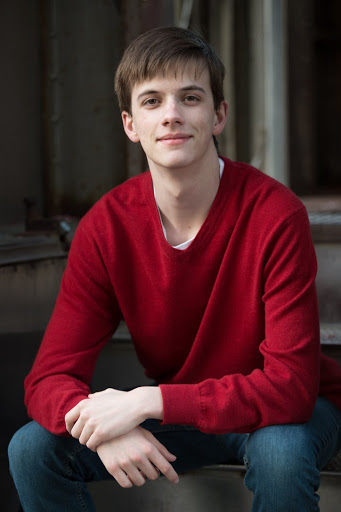
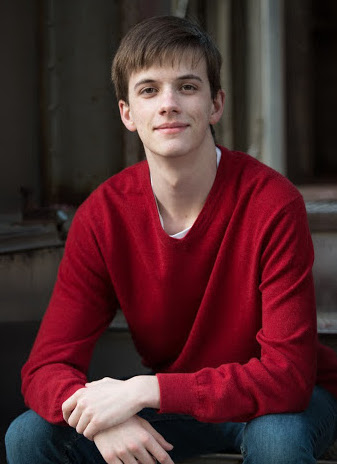
Image adjustment
changes to apsect ratio of original images.

diff --git a/index.html b/index.html
@@ -19,9 +19,6 @@
                 <li><a href="students.html">Students</a></li>
                 <li><a href="projects.html">Projects</a></li>
                 <li><a href="index.html">Home</a></li>
-
-
-
             </ul>
         </div>
         <div class="hero-text">
@@ -108,52 +105,113 @@
     </div>
 
     <div class="block4">
-        <div class="student_card">
-            <img src="img/RachelKim.jpg" alt="Girl standing in meadow">
-            <div><p>Rachel Kim</p></div>
-
-        </div>
-        <div class="student_card">
-            <img src="img/SamWolf.jpg" alt="Girl standing in meadow">
-            <div><p>Sam Wolf</p></div>
-            <p>Sam Wolf</p>
-        </div>
-        <div class="student_card">
-            <img src="img/MarcelaGomez.jpg" alt="Girl standing in meadow">
-            <div><p>Marcela Gomez</p></div>
-            <p>Marcela Gomez</p>
-        </div>
-        <div class="student_card">
-            <img src="img/NicholasYoung.png" alt="Girl standing in meadow">
-            <div><p>Nicholas Young </p></div>
-
-        </div>
-        
-    </div>
-
-    <div class="block2">
-        <div class="container">
-            <div class="gallery">
-                <a target="blank" href="img/pisan.jpg">
-                    <img src="img/pisan.jpg" alt="picture of Dr. Yusuf Pisan" width="140" height="140">
-                </a>
+        <div class="flip_card">
+            <div class="flip_card_inner">
+                <div class="flip_card_front">
+                    <img src="img/RachelKim.jpg" alt="Girl standing in meadow">
+                    <div><p>Rachel Kim</p></div>
+                </div>
+                <div class="flip_card_back">
+                    <p> Building Problem Solver (BPS)</p>
+                </div>
             </div>
-            <div class="bio-text">
-                <h2>Dr. Yusuf Pisan</h2>
-                Lorem ipsum dolor sit amet, consectetur adipiscing elit, sed do eiusmod tempor incididunt ut labore
-                et dolore magna aliqua. Ut enim ad minim veniam, quis nostrud exercitation ullamco laboris nisi ut
-                aliquip ex ea commodo consequat. Duis aute irure dolor in reprehenderit in voluptate velit esse
-                cillum dolore eu fugiat nulla pariatur. Excepteur sint occaecat cupidatat non proident, sunt in
-                culpa qui officia deserunt mollit anim id est laborum.
+        </div>
 
-                Lorem ipsum dolor sit amet, consectetur adipiscing elit, sed do eiusmod tempor incididunt ut labore
-                et dolore magna aliqua. Ut enim ad minim veniam, quis nostrud exercitation ullamco laboris nisi ut
-                aliquip ex ea commodo consequat. Duis aute irure dolor in reprehenderit in voluptate velit esse
-                cillum dolore eu fugiat nulla pariatur. Excepteur sint occaecat cupidatat non proident, sunt in
-                culpa qui officia deserunt mollit anim id est laborum.
+        <div class="flip_card">
+            <div class="flip_card_inner">
+                <div class="flip_card_front">
+                    <img src="img/SamWolf.jpg" alt="Girl standing in meadow">
+                    <div><p>Sam Wolf</p></div>
+                </div>
+                <div class="flip_card_back">
+                    <p>I work primarily on iOS and Android apps, with a strong interest in Machine Learning and its
+                        applications. The work I have done for T4G is the start of an automated technical paper grader,
+                        along with some additions to this Website. </p>
+                </div>
+            </div>
+        </div>
+
+        <div class="flip_card">
+            <div class="flip_card_inner">
+                <div class="flip_card_front">
+                    <img src="img/MarcelaGomez.jpg" alt="Girl standing in meadow">
+                    <div><p>Marcela Gomez</p></div>
+                </div>
+                <div class="flip_card_back">
+                    <p>Problem solving leetcode problems brought me to T4G. I stayed to participate in games with a
+                        purpose and creating a new team website. </p>
+                </div>
             </div>
         </div>
     </div>
+
+    <div class="block4">
+        <div class="flip_card">
+            <div class="flip_card_inner">
+                <div class="flip_card_front">
+                    <img src="img/BillZhao.png" alt="Girl standing in meadow">
+                    <div><p>Bill Zhao</p></div>
+                </div>
+                <div class="flip_card_back">
+                    <p> Bill worked on the hint generator project and contributed to the Stepik course as his
+                        Capstone project.</p>
+                </div>
+            </div>
+        </div>
+
+        <div class="flip_card">
+            <div class="flip_card_inner">
+                <div class="flip_card_front">
+                    <img src="img/KeziahMay.jpg" alt="Girl standing in meadow">
+                    <div><p>Keziah May </p></div>
+                </div>
+                <div class="flip_card_back">
+                    <p>As a member of T4G, I am working with my team to create an online class focused on
+                        problem solving. The goal of this course is to bridge the gap between Computer
+                        Science education and the skills required to land a job.
+                        https://stepik.org/course/72339/promo </p>
+                </div>
+            </div>
+        </div>
+
+        <div class="flip_card">
+            <div class="flip_card_inner">
+                <div class="flip_card_front">
+                    <img src="img/NicholasYoung.png " alt="Girl standing in meadow">
+                    <div><p>Nicholas Young </p></div>
+                </div>
+                <div class="flip_card_back">
+                    <p>100 Unity Mechanics</p>
+                </div>
+            </div>
+        </div>
+    </div>
+
+
+
+<!--    <div class="block2">-->
+<!--        <div class="container">-->
+<!--            <div class="gallery">-->
+<!--                <a target="blank" href="img/pisan.jpg">-->
+<!--                    <img src="img/pisan.jpg" alt="picture of Dr. Yusuf Pisan" width="140" height="140">-->
+<!--                </a>-->
+<!--            </div>-->
+<!--            <div class="bio-text">-->
+<!--                <h2>Dr. Yusuf Pisan</h2>-->
+<!--                Lorem ipsum dolor sit amet, consectetur adipiscing elit, sed do eiusmod tempor incididunt ut labore-->
+<!--                et dolore magna aliqua. Ut enim ad minim veniam, quis nostrud exercitation ullamco laboris nisi ut-->
+<!--                aliquip ex ea commodo consequat. Duis aute irure dolor in reprehenderit in voluptate velit esse-->
+<!--                cillum dolore eu fugiat nulla pariatur. Excepteur sint occaecat cupidatat non proident, sunt in-->
+<!--                culpa qui officia deserunt mollit anim id est laborum.-->
+
+<!--                Lorem ipsum dolor sit amet, consectetur adipiscing elit, sed do eiusmod tempor incididunt ut labore-->
+<!--                et dolore magna aliqua. Ut enim ad minim veniam, quis nostrud exercitation ullamco laboris nisi ut-->
+<!--                aliquip ex ea commodo consequat. Duis aute irure dolor in reprehenderit in voluptate velit esse-->
+<!--                cillum dolore eu fugiat nulla pariatur. Excepteur sint occaecat cupidatat non proident, sunt in-->
+<!--                culpa qui officia deserunt mollit anim id est laborum.-->
+<!--            </div>-->
+<!--        </div>-->
+<!--    </div>-->
 
     <footer class="hero-image2">
         <div class="container">

diff --git a/style.css b/style.css
@@ -64,6 +64,9 @@
         padding-right: 10px;
         float: right;
     }
+    .block1{
+        margin: 150px 0 150px 0;
+    }
     .block1 h2{
         margin: 60px 0px 20px 110px;
 
@@ -74,7 +77,7 @@
         flex-direction: row;
         justify-content: space-evenly;
         align-content: space-between;
-        padding: 30px 0px 30px 0px;
+        padding: 50px 0px 50px 0px;
     }
     div.gallery {
         /*margin: 10px;*/
@@ -121,7 +124,6 @@
         line-height: 1.3;
         margin: 100px 0px 100px 0px;
         color: white;
-
     }
 
     .block3 {
@@ -135,6 +137,68 @@
         margin: 100px 0px 100px 0px;
         color: white;
     }
+
+    .block4 {
+        display: flex;
+        flex-direction: row;
+        flex-wrap: wrap;
+        justify-content: space-evenly;
+    }
+
+    .flip_card{
+        background-color: transparent;
+        width: 300px;
+        height: 525px;
+        perspective: 1000px;
+        padding: 150px 0 150px 0;
+    }
+
+    .flip_card_inner {
+        position: relative;
+        width: 100%;
+        height: 100%;
+        text-align: center;
+        border-radius: 35px;
+        transition:transform 1.2s;
+        transform-style: preserve-3d;
+        box-shadow: 0 4px 8px 0 rgba(0,0,0,0.2);
+    }
+    .flip_card:hover .flip_card_inner {
+        transform: rotateY(180deg);
+    }
+    .flip_card_front, .flip_card_back{
+        position: absolute;
+        width: 100%;
+        height: 100%;
+        -webkit-backface-visibility: hidden;
+        backface-visibility: hidden;
+    }
+    .flip_card_front{
+        background-color: #50498a;
+        border-radius: 35px;
+        color: black;
+        padding: 30px;
+    }
+    .flip_card_front p{
+        font-size: 35px;
+        color: goldenrod;
+    }
+    .flip_card_front img{
+        width: 100%;
+        height: auto;
+    }
+
+    .flip_card_back{
+        background-color: #32174d;
+        border-radius: 35px;
+        color: white;
+        transform: rotateY(180deg);
+    }
+    .flip_card_back p{
+        padding: 50px 30px 50px 30px;
+        font-size: 25px;
+    }
+
 
     .hero-image2 {
         background-image: url("img/bottom.png");
